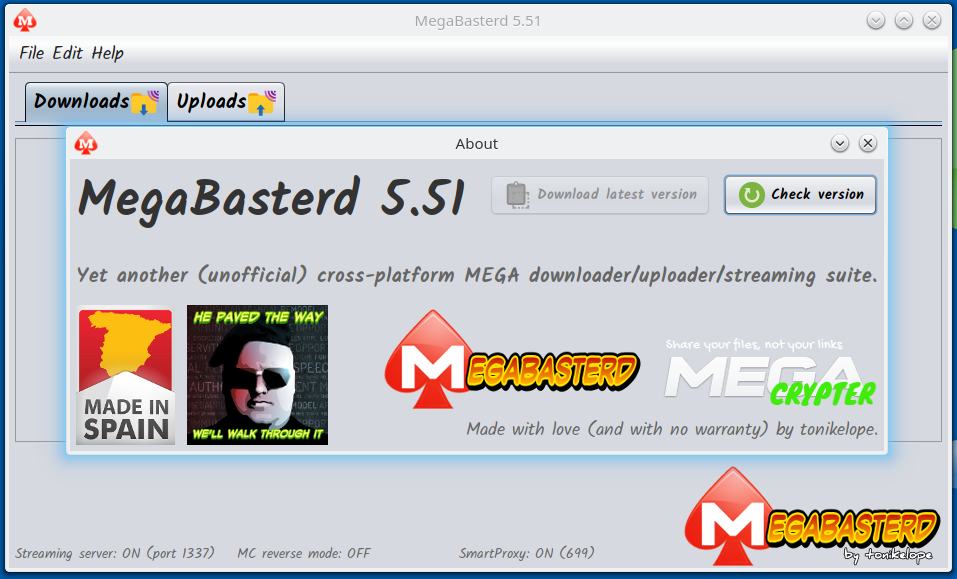
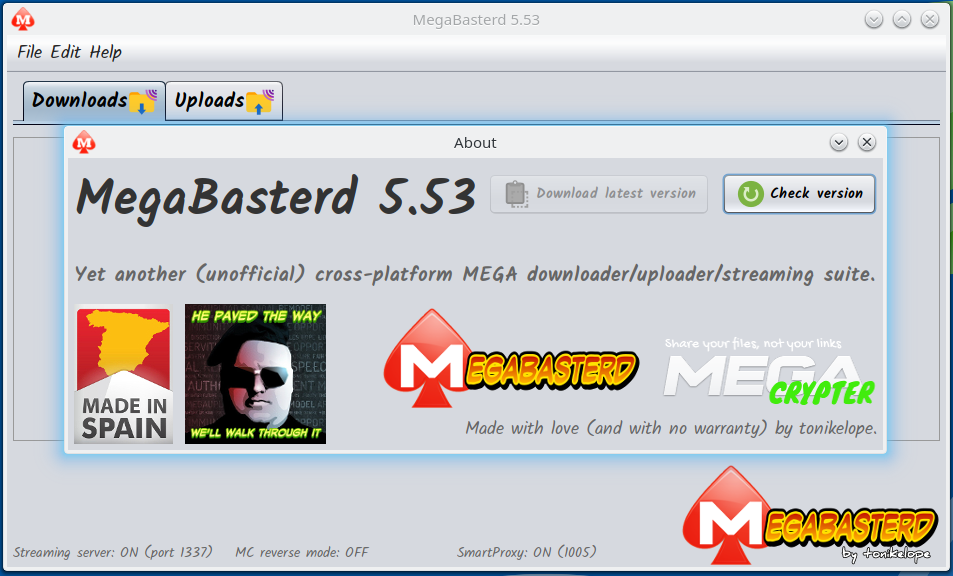
5.53
-Error 503 disables chunk downloader

diff --git a/src/main/java/com/tonikelope/megabasterd/Download.java b/src/main/java/com/tonikelope/megabasterd/Download.java
@@ -1216,6 +1216,10 @@ public final class Download implements Transference, Runnable, SecureSingleThrea
                         @Override
                         public void run() {
 
+                            getView().getSlots_spinner().setEnabled(false);
+
+                            getView().getSlots_spinner().setValue((int) getView().getSlots_spinner().getValue() - 1);
+
                             getView().getSlots_spinner().setEnabled(true);
                         }
                     });

diff --git a/src/main/java/com/tonikelope/megabasterd/MainPanel.java b/src/main/java/com/tonikelope/megabasterd/MainPanel.java
@@ -47,7 +47,7 @@ import java.io.File;
  */
 public final class MainPanel {
 
-    public static final String VERSION = "5.52";
+    public static final String VERSION = "5.53";
     public static final int THROTTLE_SLICE_SIZE = 16 * 1024;
     public static final int DEFAULT_BYTE_BUFFER_SIZE = 16 * 1024;
     public static final int STREAMER_PORT = 1337;
